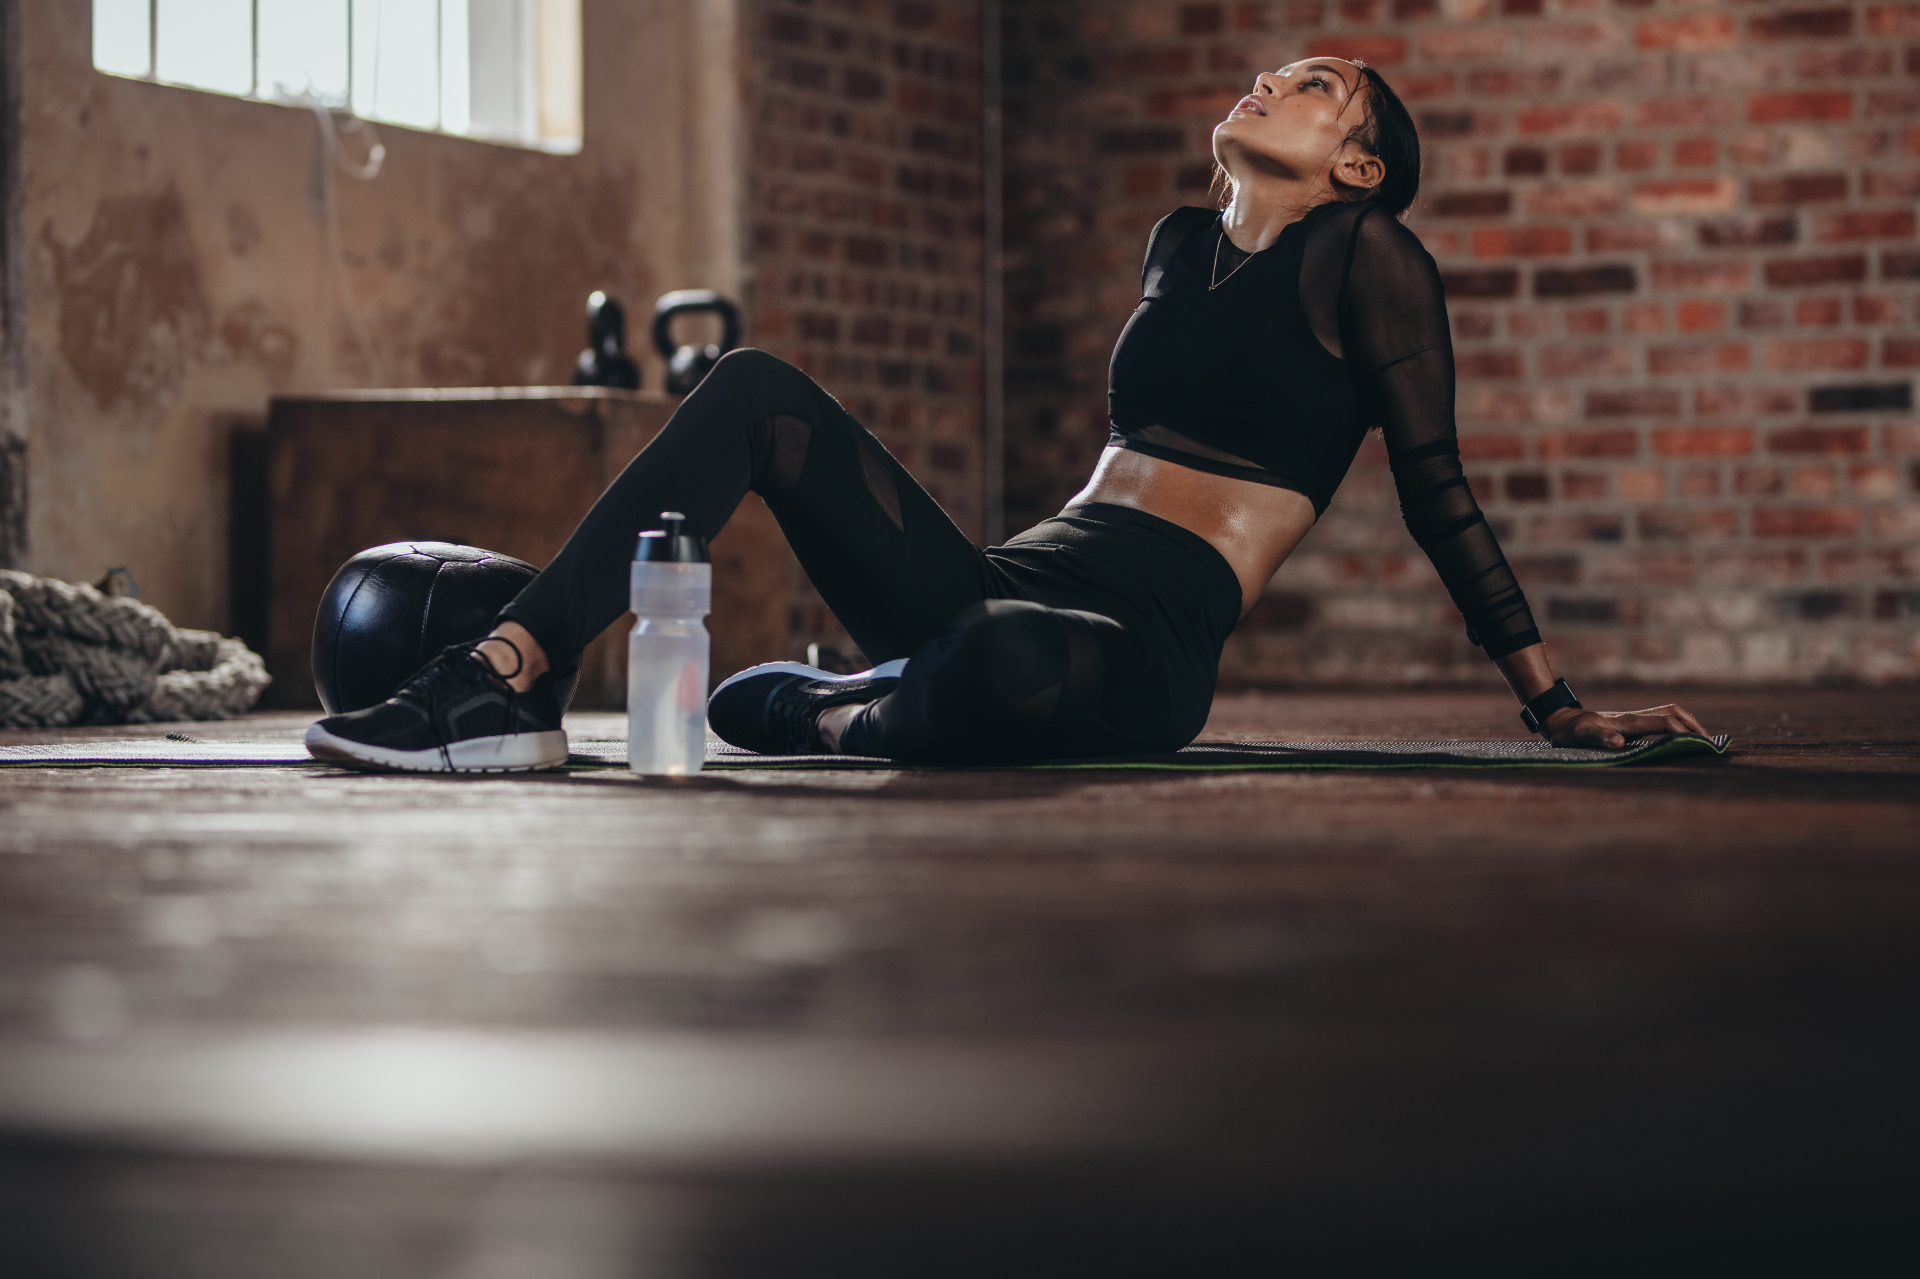
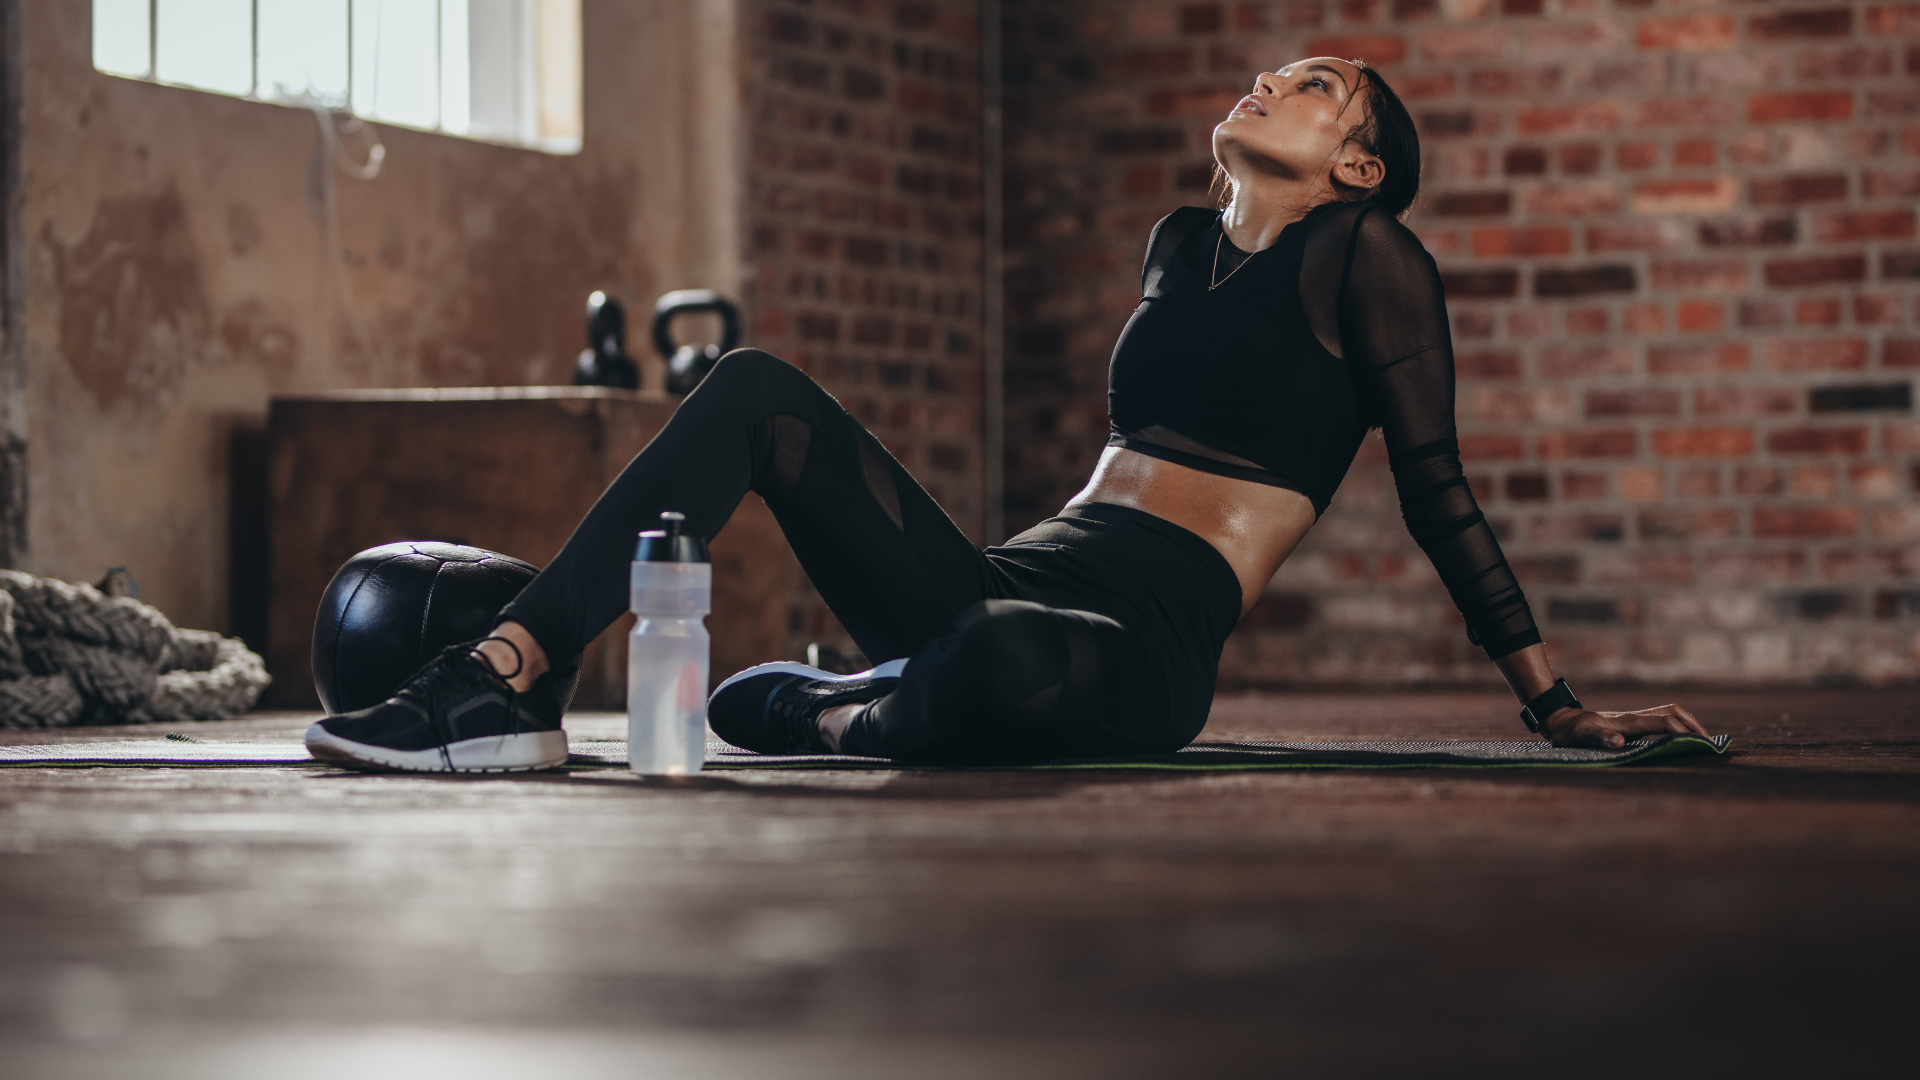
Update hero for classes page

diff --git a/src/components/page-hero.js b/src/components/page-hero.js
@@ -2,12 +2,21 @@ import PropTypes from 'prop-types';
 import React from 'react';
 import GatsbyImage from 'gatsby-image';
 
-function PageHero({ heading, image }) {
+function PageHero({
+  heading,
+  image,
+  objectFit = 'cover',
+  objectPosition = 'center',
+}) {
   return (
     <div className="relative overflow-hidden">
       <div className="absolute inset-0 sm:h-0 sm:relative aspect-ratio-16/9">
         <div className="absolute inset-0 flex">
-          <GatsbyImage fluid={image} className="flex-1" />
+          <GatsbyImage
+            fluid={image}
+            imgStyle={{ objectPosition, objectFit }}
+            className="flex-1"
+          />
           <div
             aria-hidden
             className="absolute inset-x-0 bottom-0 h-1/2 bg-gradient-to-t from-black via-transparent"
@@ -27,8 +36,10 @@ function PageHero({ heading, image }) {
 }
 
 PageHero.propTypes = {
-  image: PropTypes.object.isRequired,
   heading: PropTypes.string.isRequired,
+  image: PropTypes.object.isRequired,
+  objectFit: PropTypes.string,
+  objectPosition: PropTypes.string,
 };
 
 export { PageHero };

diff --git a/src/pages/classes.js b/src/pages/classes.js
@@ -22,6 +22,7 @@ function ClassesPage() {
       <PageHero
         heading="nXtLvL Classes"
         image={classes.childImageSharp.fluid}
+        objectPosition="top"
       />
       <GradientContainer>
         <div className="px-4 py-24 sm:px-6 lg:px-8">
